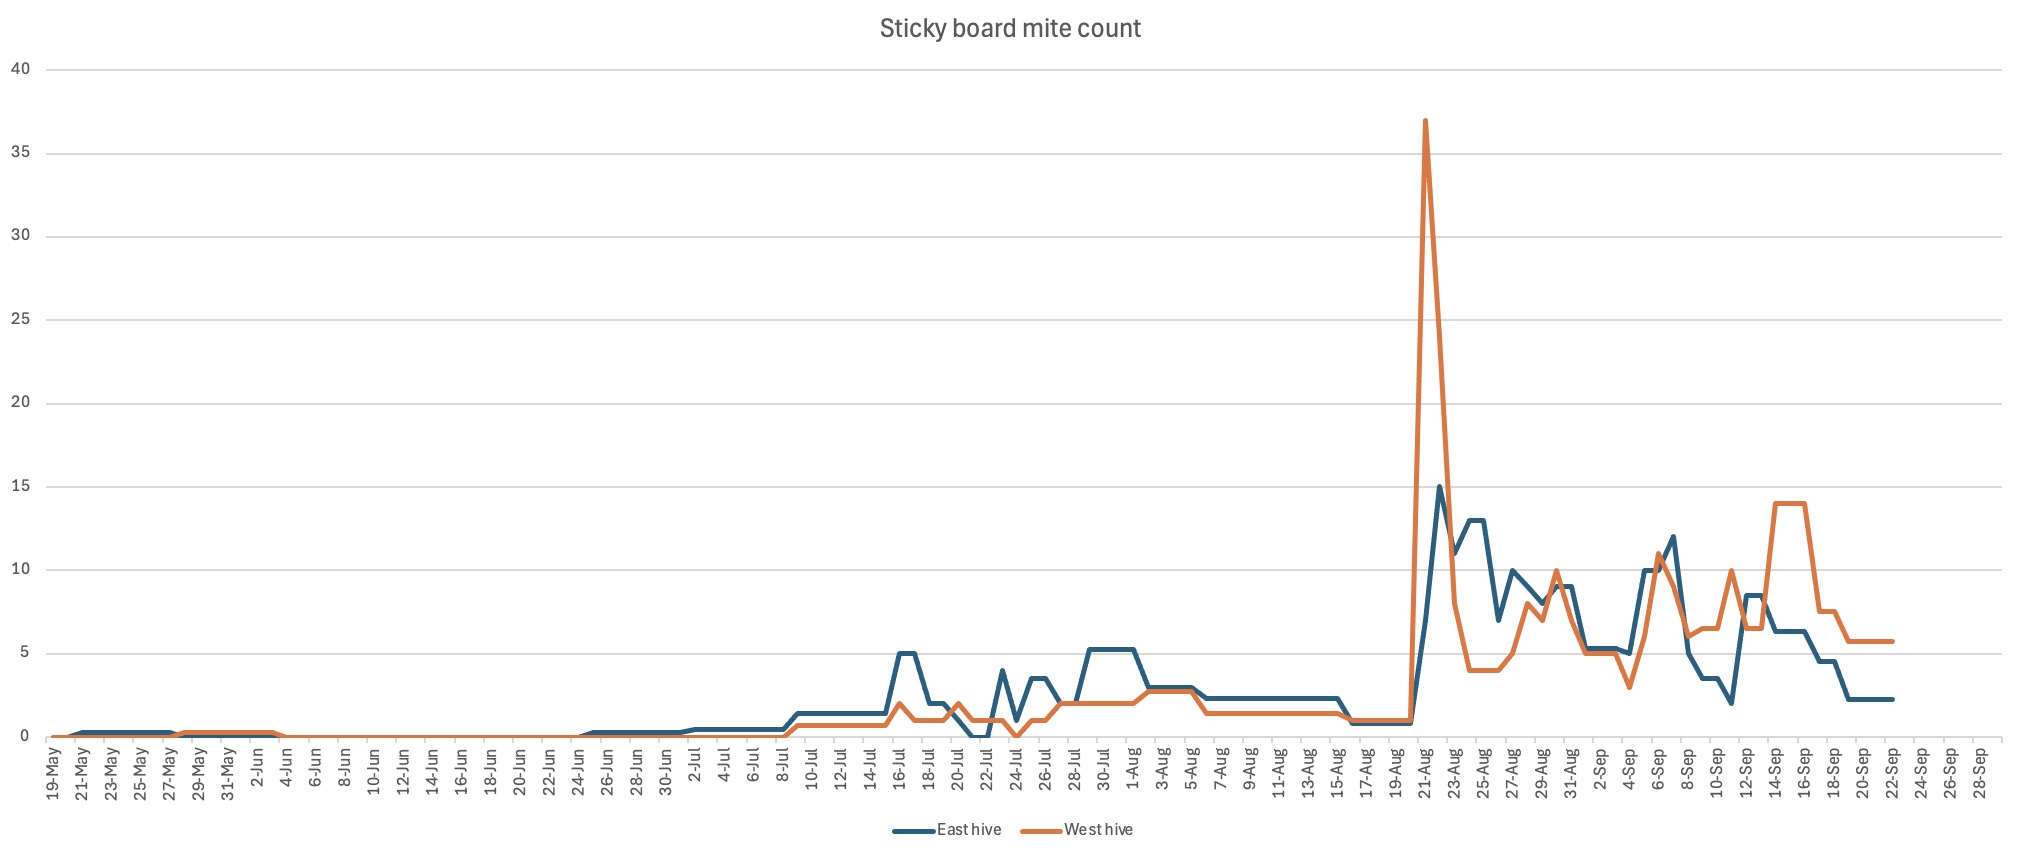
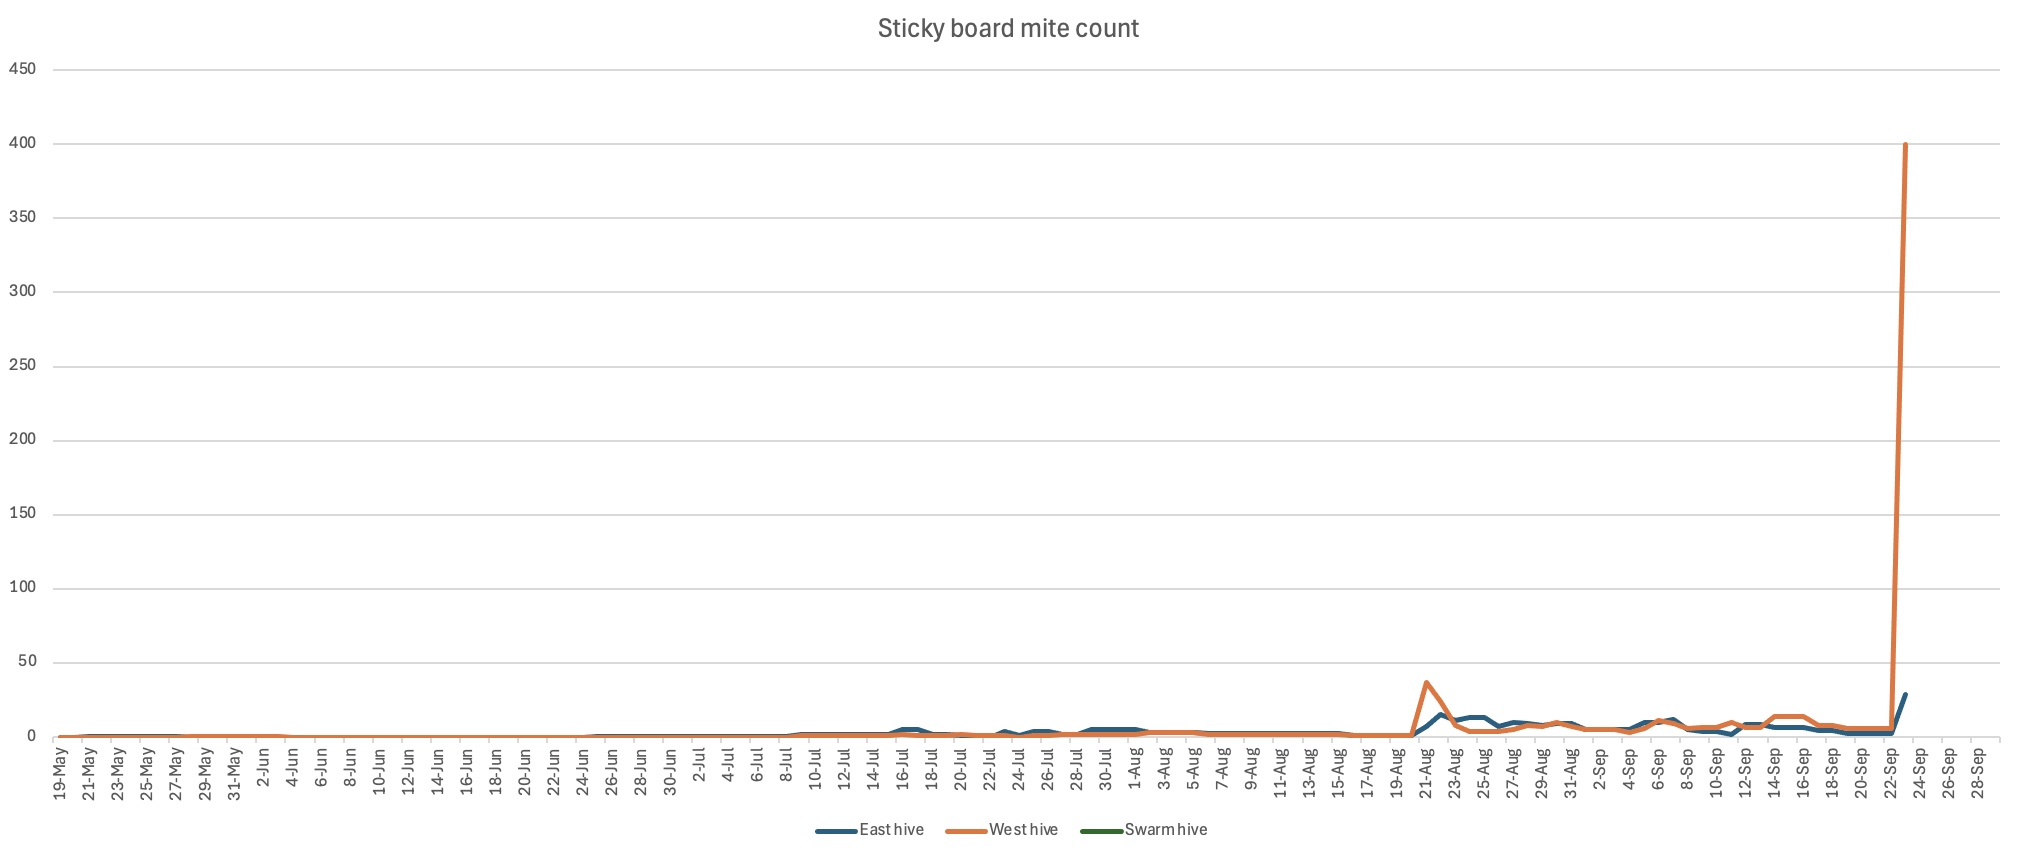
added mite check

diff --git a/_posts/2024-09-23-mite-check.md b/_posts/2024-09-23-mite-check.md
@@ -1,0 +1,26 @@
+---
+title: "Mite Check"
+date: 2024-09-23
+---
+
+- Time: ~07.45
+- Temp: ~57F, cloudy
+
+First day after the OAV diagnostic treatment.
+
+### East hive
+
+- Bottom board had 29 mites
+- Wiped and re-oiled the bottom board.
+
+### Swarm hive
+
+- Bottom board had 30 mites
+- Wiped and re-oiled the bottom board.
+
+### West hive
+
+- Bottom board had 400 mites!!!
+- Wiped and re-oiled the bottom board.
+- Quite a precipitous increase of mites!
+
